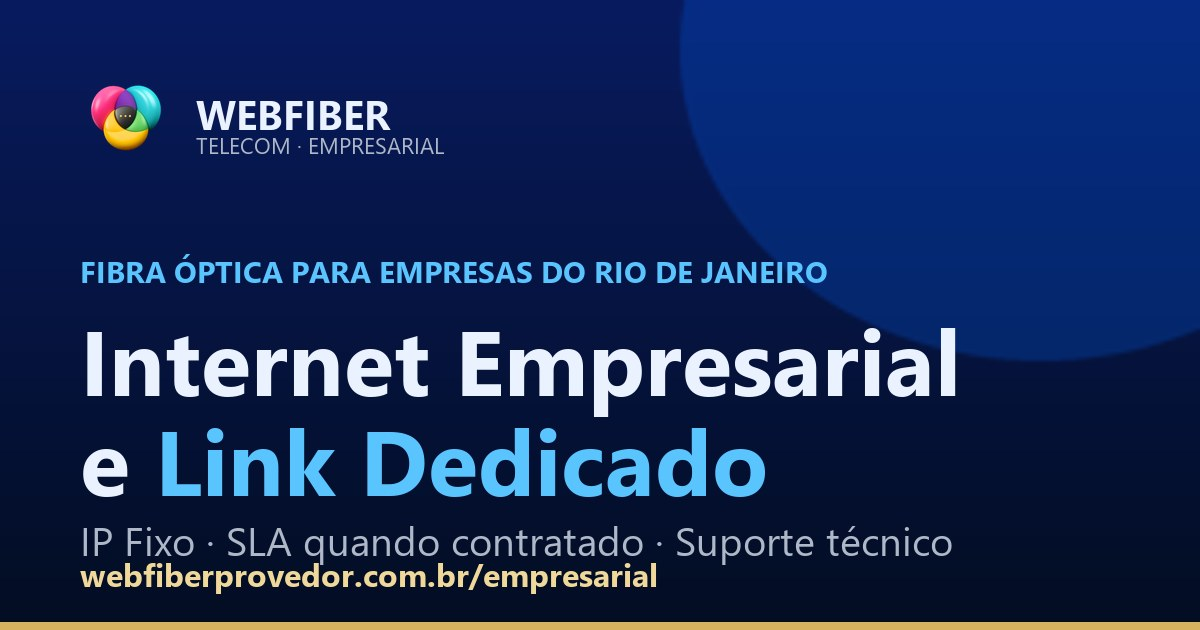
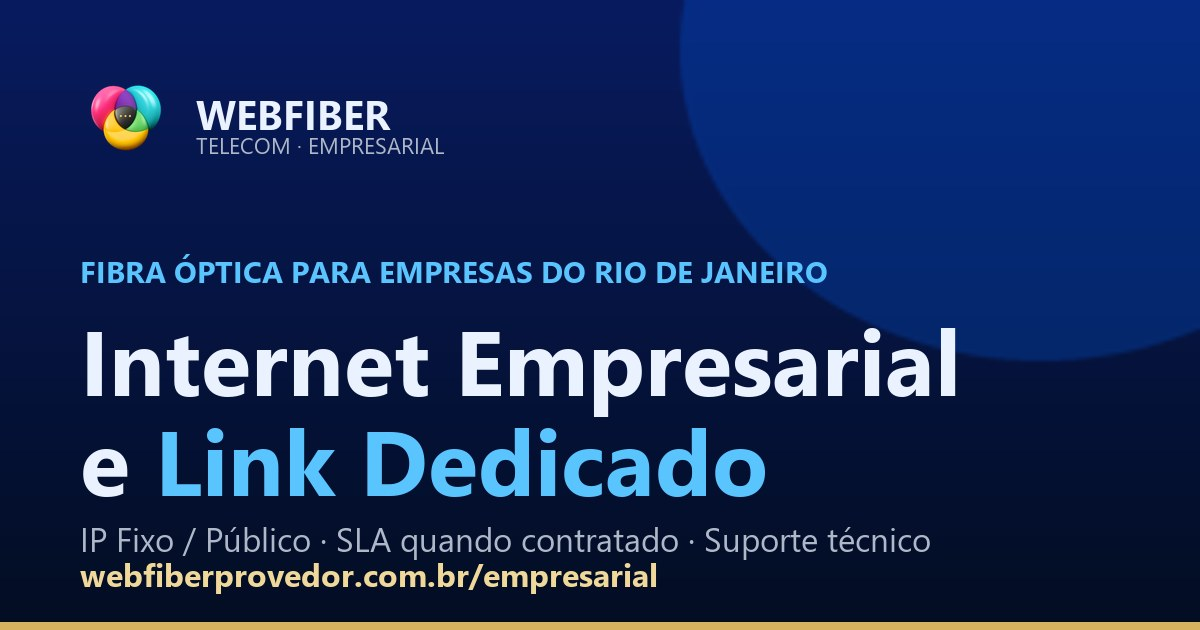
Empresarial: "IP fixo" -> "IP Fixo / Público" em todo o site + OG atualizada

Changed region(s): [[0.0617, 0.8143, 0.8017, 0.9048]]

diff --git a/empresarial/index.html b/empresarial/index.html
@@ -46,7 +46,7 @@
        ============================================================ -->
 
   <title>Internet Empresarial e Link Dedicado no Centro do RJ | WebFiber</title>
-  <meta name="description" content="Internet empresarial, link dedicado, IP fixo e fibra óptica para empresas no Centro do Rio de Janeiro. Soluções para CNPJ sob consulta. Fale com a WebFiber.">
+  <meta name="description" content="Internet empresarial, link dedicado, IP Fixo / Público e fibra óptica para empresas no Centro do Rio de Janeiro. Soluções para CNPJ sob consulta. Fale com a WebFiber.">
   <meta name="theme-color" content="#061A40">
   <meta name="author" content="WebFiber Telecom">
   <link rel="canonical" href="https://webfiberprovedor.com.br/empresarial">
@@ -54,14 +54,14 @@
   <!-- Open Graph / compartilhamento -->
   <meta property="og:type" content="website">
   <meta property="og:title" content="Internet Empresarial e Link Dedicado no Centro do Rio | WebFiber">
-  <meta property="og:description" content="Link dedicado, IP fixo e fibra óptica para empresas. Consulte uma solução empresarial WebFiber no Centro do Rio de Janeiro.">
+  <meta property="og:description" content="Link dedicado, IP Fixo / Público e fibra óptica para empresas. Consulte uma solução empresarial WebFiber no Centro do Rio de Janeiro.">
   <meta property="og:url" content="https://webfiberprovedor.com.br/empresarial">
   <meta property="og:locale" content="pt_BR">
   <meta property="og:site_name" content="WebFiber Telecom">
   <meta property="og:image" content="https://webfiberprovedor.com.br/empresarial/assets/og-empresarial.jpg">
   <meta name="twitter:card" content="summary_large_image">
   <meta name="twitter:title" content="Internet Empresarial e Link Dedicado no Centro do Rio | WebFiber">
-  <meta name="twitter:description" content="Link dedicado, IP fixo e fibra óptica para empresas no Centro do Rio de Janeiro.">
+  <meta name="twitter:description" content="Link dedicado, IP Fixo / Público e fibra óptica para empresas no Centro do Rio de Janeiro.">
 
   <link rel="icon" type="image/png" sizes="32x32" href="assets/favicon-32.png?v=20260613b">
   <link rel="icon" type="image/png" sizes="16x16" href="assets/favicon-16.png?v=20260613b">
@@ -100,8 +100,8 @@
         "parentOrganization": { "@id": "https://webfiberprovedor.com.br/#organization" },
         "areaServed": { "@type": "Place", "name": "Centro do Rio de Janeiro" },
         "address": { "@type": "PostalAddress", "addressLocality": "Rio de Janeiro", "addressRegion": "RJ", "addressCountry": "BR" },
-        "description": "Provedor de internet empresarial em fibra óptica no Centro do Rio de Janeiro. Internet empresarial, link dedicado, IP fixo e soluções para CNPJ sob consulta.",
-        "knowsAbout": ["Internet empresarial", "Link dedicado", "IP fixo", "Fibra óptica empresarial", "Banda larga empresarial", "SLA"]
+        "description": "Provedor de internet empresarial em fibra óptica no Centro do Rio de Janeiro. Internet empresarial, link dedicado, IP Fixo / Público e soluções para CNPJ sob consulta.",
+        "knowsAbout": ["Internet empresarial", "Link dedicado", "IP Fixo / Público", "Fibra óptica empresarial", "Banda larga empresarial", "SLA"]
       },
       {
         "@type": "FAQPage",
@@ -114,17 +114,17 @@
           { "@type": "Question", "name": "E se a conexão da minha empresa cair?",
             "acceptedAnswer": { "@type": "Answer", "text": "Sua empresa conta com suporte técnico especializado da WebFiber. Em soluções de link dedicado há maior disponibilidade e possibilidade de SLA, quando contratado. Fale com o consultor para detalhar o atendimento da sua operação." } },
           { "@type": "Question", "name": "Qual o melhor provedor de internet empresarial no Centro do Rio?",
-            "acceptedAnswer": { "@type": "Answer", "text": "A WebFiber é um provedor de internet em fibra óptica com atuação no Centro do Rio de Janeiro, com soluções empresariais como internet dedicada, link dedicado e IP fixo. A melhor solução depende da operação da sua empresa — consulte a viabilidade pelo WhatsApp." } },
+            "acceptedAnswer": { "@type": "Answer", "text": "A WebFiber é um provedor de internet em fibra óptica com atuação no Centro do Rio de Janeiro, com soluções empresariais como internet dedicada, link dedicado e IP Fixo / Público. A melhor solução depende da operação da sua empresa — consulte a viabilidade pelo WhatsApp." } },
           { "@type": "Question", "name": "O que é internet empresarial?",
-            "acceptedAnswer": { "@type": "Answer", "text": "Internet empresarial é uma conexão projetada para a operação de empresas, com foco em estabilidade, suporte técnico especializado e opções como IP fixo e link dedicado — diferente do uso doméstico." } },
+            "acceptedAnswer": { "@type": "Answer", "text": "Internet empresarial é uma conexão projetada para a operação de empresas, com foco em estabilidade, suporte técnico especializado e opções como IP Fixo / Público e link dedicado — diferente do uso doméstico." } },
           { "@type": "Question", "name": "Qual a diferença entre internet empresarial e link dedicado?",
             "acceptedAnswer": { "@type": "Answer", "text": "A internet empresarial é uma conexão profissional em fibra para o dia a dia da empresa. O link dedicado é uma solução com maior disponibilidade e desempenho, indicada para operações críticas, podendo incluir SLA e velocidade simétrica quando contratados." } },
-          { "@type": "Question", "name": "Minha empresa precisa de IP fixo?",
-            "acceptedAnswer": { "@type": "Answer", "text": "O IP fixo é indicado para empresas que usam VPN, câmeras, servidores, acessos remotos e sistemas internos que precisam de uma identificação estável na rede." } },
+          { "@type": "Question", "name": "Minha empresa precisa de IP Fixo / Público?",
+            "acceptedAnswer": { "@type": "Answer", "text": "O IP Fixo / Público é indicado para empresas que usam VPN, câmeras, servidores, acessos remotos e sistemas internos que precisam de uma identificação estável na rede." } },
           { "@type": "Question", "name": "A WebFiber atende empresas com CNPJ?",
             "acceptedAnswer": { "@type": "Answer", "text": "Sim. A WebFiber atende empresas e oferece soluções para CNPJ, com proposta personalizada conforme a necessidade e mediante análise de viabilidade técnica." } },
           { "@type": "Question", "name": "Internet empresarial serve para câmeras e VPN?",
-            "acceptedAnswer": { "@type": "Answer", "text": "Sim. Com opção de IP fixo, a internet empresarial é indicada para câmeras, VPN, servidores, acessos remotos e sistemas corporativos." } },
+            "acceptedAnswer": { "@type": "Answer", "text": "Sim. Com opção de IP Fixo / Público, a internet empresarial é indicada para câmeras, VPN, servidores, acessos remotos e sistemas corporativos." } },
           { "@type": "Question", "name": "A instalação depende de viabilidade técnica?",
             "acceptedAnswer": { "@type": "Answer", "text": "Sim. A instalação é realizada mediante análise de viabilidade técnica para o endereço da empresa." } },
           { "@type": "Question", "name": "Como solicitar uma cotação empresarial?",
@@ -171,7 +171,7 @@
         <a href="#solucoes">Soluções</a>
         <a href="#beneficios">Benefícios</a>
         <a href="#link-dedicado">Link Dedicado</a>
-        <a href="#ip-fixo">IP Fixo</a>
+        <a href="#ip-fixo">IP Fixo / Público</a>
         <a href="#cobertura">Cobertura</a>
         <a href="#faq">FAQ</a>
       </nav>
@@ -185,7 +185,7 @@
       <a href="#solucoes">Soluções</a>
       <a href="#beneficios">Benefícios</a>
       <a href="#link-dedicado">Link Dedicado</a>
-      <a href="#ip-fixo">IP Fixo</a>
+      <a href="#ip-fixo">IP Fixo / Público</a>
       <a href="#cobertura">Cobertura</a>
       <a href="#faq">FAQ</a>
       <a class="btn btn--wa btn--lg mobilenav__cta" data-wa href="https://wa.me/5521985589201">Solicitar cotação no WhatsApp</a>
@@ -214,14 +214,14 @@
 
           <p class="hero__sub reveal" data-rv>
             Fibra óptica para empresas do <strong>Rio de Janeiro</strong> —
-            <strong>internet empresarial, link dedicado e IP fixo</strong>, com atendimento direto pelo
+            <strong>internet empresarial, link dedicado e IP Fixo / Público</strong>, com atendimento direto pelo
             WhatsApp e proposta sob medida para o seu CNPJ.
           </p>
 
           <ul class="hero__pills reveal" data-rv aria-label="Soluções empresariais">
             <li>Internet Empresarial</li>
             <li>Link Dedicado</li>
-            <li>IP Fixo</li>
+            <li>IP Fixo / Público</li>
             <li>SLA quando contratado</li>
             <li>Conexão estável</li>
             <li>Suporte técnico</li>
@@ -252,7 +252,7 @@
             <b>SLA</b><i>disponibilidade contratada</i>
           </span>
           <span class="floatcard floatcard--b" data-parallax="0.1">
-            <b>IP Fixo</b><i>VPN · câmeras · servidores</i>
+            <b>IP Fixo / Público</b><i>VPN · câmeras · servidores</i>
           </span>
           <span class="floatcard floatcard--c" data-parallax="0.08">
             <b>Fibra óptica</b><i>conexão profissional</i>
@@ -277,7 +277,7 @@
         <div class="marquee__group">
           <span>INTERNET EMPRESARIAL</span><i>◆</i>
           <span>LINK DEDICADO</span><i>◆</i>
-          <span>IP FIXO</span><i>◆</i>
+          <span>IP FIXO / PÚBLICO</span><i>◆</i>
           <span>FIBRA ÓPTICA</span><i>◆</i>
           <span>SOLUÇÕES PARA CNPJ</span><i>◆</i>
           <span>SUPORTE TÉCNICO</span><i>◆</i>
@@ -326,7 +326,7 @@
           </article>
           <article class="card reveal" data-rv>
             <span class="card__ico"><svg viewBox="0 0 24 24"><path d="M4 6h16v12H4zM4 10h16M8 14h4"/></svg></span>
-            <h3>IP Fixo</h3>
+            <h3>IP Fixo / Público</h3>
             <p>Ideal para VPN, câmeras, servidores, acessos remotos, sistemas internos e aplicações corporativas que precisam de identificação estável na rede.</p>
           </article>
           <article class="card reveal" data-rv>
@@ -365,7 +365,7 @@
             <li><svg viewBox="0 0 24 24" class="ico"><path d="m5 13 4 4L19 7"/></svg>Atendimento direto pelo WhatsApp</li>
             <li><svg viewBox="0 0 24 24" class="ico"><path d="m5 13 4 4L19 7"/></svg>Soluções para CNPJ</li>
             <li><svg viewBox="0 0 24 24" class="ico"><path d="m5 13 4 4L19 7"/></svg>Planos sob consulta</li>
-            <li><svg viewBox="0 0 24 24" class="ico"><path d="m5 13 4 4L19 7"/></svg>Opções com IP fixo</li>
+            <li><svg viewBox="0 0 24 24" class="ico"><path d="m5 13 4 4L19 7"/></svg>Opções com IP Fixo / Público</li>
           </ul>
           <ul class="why__list reveal" data-rv>
             <li><svg viewBox="0 0 24 24" class="ico"><path d="m5 13 4 4L19 7"/></svg>Possibilidade de link dedicado</li>
@@ -389,7 +389,7 @@
           <p class="feature__lead">Uma solução profissional para operações que dependem de conexão estável, melhor performance, suporte técnico e estrutura preparada para demandas corporativas.</p>
           <ul class="feature__list">
             <li><svg viewBox="0 0 24 24" class="ico"><path d="m5 13 4 4L19 7"/></svg>Velocidade simétrica, quando aplicável</li>
-            <li><svg viewBox="0 0 24 24" class="ico"><path d="m5 13 4 4L19 7"/></svg>IP fixo, quando contratado</li>
+            <li><svg viewBox="0 0 24 24" class="ico"><path d="m5 13 4 4L19 7"/></svg>IP Fixo / Público, quando contratado</li>
             <li><svg viewBox="0 0 24 24" class="ico"><path d="m5 13 4 4L19 7"/></svg>SLA, quando contratado</li>
             <li><svg viewBox="0 0 24 24" class="ico"><path d="m5 13 4 4L19 7"/></svg>Suporte técnico especializado</li>
             <li><svg viewBox="0 0 24 24" class="ico"><path d="m5 13 4 4L19 7"/></svg>Mais estabilidade para operação crítica</li>
@@ -413,9 +413,9 @@
     <section class="section section--ip" id="ip-fixo">
       <div class="container">
         <header class="section__head reveal" data-rv>
-          <p class="kicker">IP Fixo</p>
-          <h2>IP fixo para a sua empresa ter <span class="grad-text">mais controle e segurança</span></h2>
-          <p class="section__lead">O IP fixo é indicado para empresas que utilizam VPN, câmeras, servidores, sistemas internos, acessos remotos e aplicações que precisam de identificação estável na rede.</p>
+          <p class="kicker">IP Fixo / Público</p>
+          <h2>IP Fixo / Público para a sua empresa ter <span class="grad-text">mais controle e segurança</span></h2>
+          <p class="section__lead">O IP Fixo / Público é indicado para empresas que utilizam VPN, câmeras, servidores, sistemas internos, acessos remotos e aplicações que precisam de identificação estável na rede.</p>
         </header>
 
         <div class="minicards">
@@ -475,7 +475,7 @@
             <h3>Empresarial WebFiber</h3>
             <ul>
               <li><span class="ok">✓</span> Foco em negócios</li>
-              <li><span class="ok">✓</span> Possibilidade de IP fixo</li>
+              <li><span class="ok">✓</span> Possibilidade de IP Fixo / Público</li>
               <li><span class="ok">✓</span> Possibilidade de link dedicado</li>
               <li><span class="ok">✓</span> Suporte técnico especializado</li>
               <li><span class="ok">✓</span> Consulta técnica de viabilidade</li>
@@ -535,23 +535,23 @@
         <div class="learn">
           <article class="learn__block reveal" data-rv>
             <h3>O que é internet empresarial?</h3>
-            <p>Internet empresarial é uma conexão em fibra óptica projetada para a operação de empresas. O foco está em estabilidade, suporte técnico especializado e em recursos como IP fixo e link dedicado — diferente do uso doméstico, ela é pensada para quem depende da conexão para trabalhar.</p>
+            <p>Internet empresarial é uma conexão em fibra óptica projetada para a operação de empresas. O foco está em estabilidade, suporte técnico especializado e em recursos como IP Fixo / Público e link dedicado — diferente do uso doméstico, ela é pensada para quem depende da conexão para trabalhar.</p>
           </article>
           <article class="learn__block reveal" data-rv>
             <h3>Qual a diferença entre internet empresarial e residencial?</h3>
-            <p>A internet residencial é voltada ao uso doméstico. A internet corporativa prioriza a operação do negócio, com atendimento para CNPJ, opções de IP fixo, possibilidade de link dedicado e suporte técnico — entregando mais previsibilidade para a empresa.</p>
+            <p>A internet residencial é voltada ao uso doméstico. A internet corporativa prioriza a operação do negócio, com atendimento para CNPJ, opções de IP Fixo / Público, possibilidade de link dedicado e suporte técnico — entregando mais previsibilidade para a empresa.</p>
           </article>
           <article class="learn__block reveal" data-rv>
             <h3>Quando uma empresa precisa de link dedicado?</h3>
             <p>O link dedicado é indicado quando a operação não pode parar e precisa de maior disponibilidade e desempenho. É a escolha de empresas com sistemas críticos, muitos usuários simultâneos ou serviços que exigem conexão estável e suporte especializado, com SLA quando contratado.</p>
           </article>
           <article class="learn__block reveal" data-rv>
-            <h3>Por que contratar internet com IP fixo?</h3>
-            <p>O IP fixo dá à empresa uma identificação estável na rede, essencial para VPN, câmeras, servidores, acessos remotos e sistemas internos. Ele facilita o acesso seguro à infraestrutura da empresa de qualquer lugar.</p>
+            <h3>Por que contratar internet com IP Fixo / Público?</h3>
+            <p>O IP Fixo / Público dá à empresa uma identificação estável na rede, essencial para VPN, câmeras, servidores, acessos remotos e sistemas internos. Ele facilita o acesso seguro à infraestrutura da empresa de qualquer lugar.</p>
           </article>
           <article class="learn__block reveal" data-rv>
             <h3>Como escolher um provedor de internet para empresas?</h3>
-            <p>Avalie a tecnologia (fibra óptica), o suporte técnico, as opções de IP fixo e link dedicado e a proximidade do provedor. Um provedor para empresas que faz consulta de viabilidade e oferece proposta personalizada tende a entregar a solução mais adequada à sua operação.</p>
+            <p>Avalie a tecnologia (fibra óptica), o suporte técnico, as opções de IP Fixo / Público e link dedicado e a proximidade do provedor. Um provedor para empresas que faz consulta de viabilidade e oferece proposta personalizada tende a entregar a solução mais adequada à sua operação.</p>
           </article>
         </div>
       </div>
@@ -564,7 +564,7 @@
       <div class="container local reveal" data-rv>
         <p class="kicker kicker--gold">Provedor local</p>
         <h2>Provedor de internet no <span class="grad-text">Centro do Rio de Janeiro</span></h2>
-        <p>A WebFiber é um provedor de internet com atuação no Centro do Rio de Janeiro e em diversos outros bairros, oferecendo soluções em fibra óptica para empresas que precisam de mais estabilidade, suporte e performance no dia a dia. Com opções de internet empresarial, link dedicado, IP fixo e soluções sob consulta, a WebFiber atende negócios que dependem de conexão para operar com segurança.</p>
+        <p>A WebFiber é um provedor de internet com atuação no Centro do Rio de Janeiro e em diversos outros bairros, oferecendo soluções em fibra óptica para empresas que precisam de mais estabilidade, suporte e performance no dia a dia. Com opções de internet empresarial, link dedicado, IP Fixo / Público e soluções sob consulta, a WebFiber atende negócios que dependem de conexão para operar com segurança.</p>
         <p class="local__pioneer">WebFiber — pioneira em fibra óptica no Rio de Janeiro.</p>
       </div>
     </section>
@@ -594,19 +594,19 @@
           </details>
           <details class="faq__item">
             <summary>Qual o melhor provedor de internet empresarial no Centro do Rio?</summary>
-            <p>A WebFiber é um provedor de fibra óptica com atuação no Centro do Rio de Janeiro e soluções empresariais como internet dedicada, link dedicado e IP fixo. A melhor solução depende da operação da sua empresa — consulte a viabilidade pelo WhatsApp.</p>
+            <p>A WebFiber é um provedor de fibra óptica com atuação no Centro do Rio de Janeiro e soluções empresariais como internet dedicada, link dedicado e IP Fixo / Público. A melhor solução depende da operação da sua empresa — consulte a viabilidade pelo WhatsApp.</p>
           </details>
           <details class="faq__item">
             <summary>O que é internet empresarial?</summary>
-            <p>É uma conexão em fibra projetada para empresas, com foco em estabilidade, suporte técnico especializado e recursos como IP fixo e link dedicado, diferente do uso doméstico.</p>
+            <p>É uma conexão em fibra projetada para empresas, com foco em estabilidade, suporte técnico especializado e recursos como IP Fixo / Público e link dedicado, diferente do uso doméstico.</p>
           </details>
           <details class="faq__item">
             <summary>Qual a diferença entre internet empresarial e link dedicado?</summary>
             <p>A internet empresarial é uma conexão profissional para o dia a dia. O link dedicado é uma solução com maior disponibilidade e desempenho para operações críticas, podendo incluir SLA e velocidade simétrica quando contratados.</p>
           </details>
           <details class="faq__item">
-            <summary>Minha empresa precisa de IP fixo?</summary>
-            <p>O IP fixo é indicado para empresas que usam VPN, câmeras, servidores, acessos remotos e sistemas internos que precisam de identificação estável na rede.</p>
+            <summary>Minha empresa precisa de IP Fixo / Público?</summary>
+            <p>O IP Fixo / Público é indicado para empresas que usam VPN, câmeras, servidores, acessos remotos e sistemas internos que precisam de identificação estável na rede.</p>
           </details>
           <details class="faq__item">
             <summary>Link dedicado é melhor que internet comum?</summary>
@@ -618,7 +618,7 @@
           </details>
           <details class="faq__item">
             <summary>Internet empresarial serve para câmeras e VPN?</summary>
-            <p>Sim. Com opção de IP fixo, é indicada para câmeras, VPN, servidores, acessos remotos e sistemas corporativos.</p>
+            <p>Sim. Com opção de IP Fixo / Público, é indicada para câmeras, VPN, servidores, acessos remotos e sistemas corporativos.</p>
           </details>
           <details class="faq__item">
             <summary>A instalação depende de viabilidade técnica?</summary>
@@ -660,7 +660,7 @@
     <div class="container footer__grid">
       <div class="footer__brand">
         <img src="assets/logo_webfiber.png" alt="Logo WebFiber Telecom — internet empresarial" width="60" height="66" loading="lazy">
-        <p>Soluções de internet empresarial em fibra óptica para empresas — internet dedicada, link dedicado e IP fixo. Provedor de internet no Centro do Rio de Janeiro.</p>
+        <p>Soluções de internet empresarial em fibra óptica para empresas — internet dedicada, link dedicado e IP Fixo / Público. Provedor de internet no Centro do Rio de Janeiro.</p>
       </div>
       <div class="footer__col">
         <h3>Navegação</h3>
@@ -668,7 +668,7 @@
           <li><a href="#inicio">Início</a></li>
           <li><a href="#solucoes">Soluções</a></li>
           <li><a href="#link-dedicado">Link Dedicado</a></li>
-          <li><a href="#ip-fixo">IP Fixo</a></li>
+          <li><a href="#ip-fixo">IP Fixo / Público</a></li>
           <li><a href="#faq">FAQ</a></li>
         </ul>
       </div>
